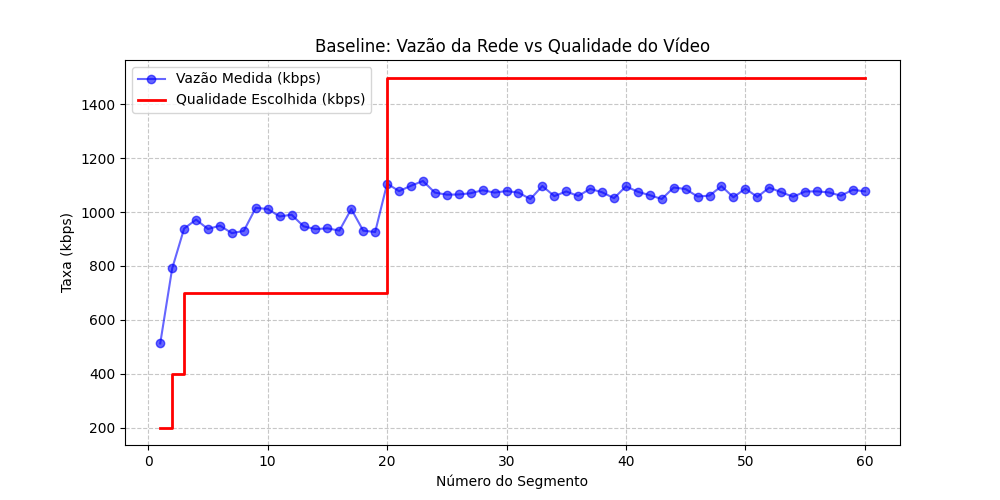
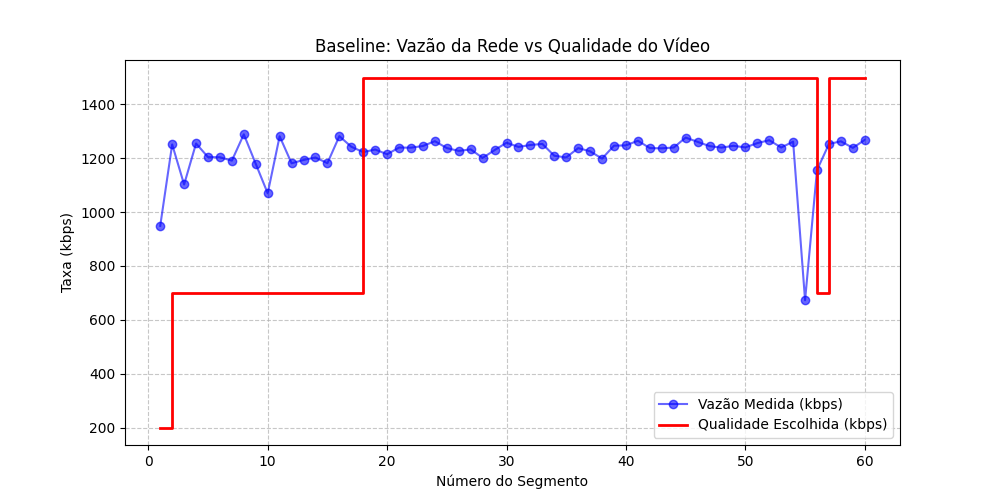
failover implementado

diff --git a/ClienteDash.py b/ClienteDash.py
@@ -21,6 +21,8 @@ class ClienteDash:
         self.download_time_s = 0.0
         self.tamanho_segmento_bits = 0
         self.fase_arranque_ativa = True
+        self.total_failovers = 0
+        self.servidores_ordenados = []
 
 
     def baixar_manifesto(self):
@@ -31,8 +33,8 @@ class ClienteDash:
                 response = requests.get(url_manifesto, timeout=3)
                 if response.status_code == 200:
                     self.manifesto = response.json()
-                    servidores = sorted(self.manifesto["servers"], key=lambda k: k['priority'])
-                    self.servidor_ativo = servidores[0]['url']
+                    self.servidores_ordenados = sorted(self.manifesto["servers"], key=lambda k: k['priority'])
+                    self.servidor_ativo = self.servidores_ordenados[0]['url']
                     print(f"    Manifesto carregado. Servidor ativo: {self.servidor_ativo}")
                     return True
             except requests.RequestException:
@@ -90,16 +92,59 @@ class ClienteDash:
                     0 # failover_total
                 ])
 
+    def baixar_com_failover(self, url_path):
+        """
+        Tenta baixar o segmento. Se falhar, busca um servidor alternativo via /health
+        """
+        url_completa = f"{self.servidor_ativo}{url_path}"
+        
+        try:
+            # Pedido normal (timeout curto para não travar o player para sempre se o server morrer)
+            response = requests.get(url_completa, timeout=2)
+            response.raise_for_status() # Lança erro se a resposta não for 200 OK
+            return response
+            
+        except requests.RequestException as e:
+            print(f"    [!] Servidor ativo ({self.servidor_ativo}) caiu ou deu timeout!")
+            print("    [*] Iniciando procedimento de FAILOVER...")
+            
+            # Itera pela lista de servidores do manifesto respeitando a prioridade
+            for servidor in self.servidores_ordenados:
+                url_candidata = servidor['url']
+                
+                # Ignora o servidor que a gente já sabe que está morto
+                if url_candidata == self.servidor_ativo:
+                    continue
+                    
+                print(f"    [*] Testando Health Check em: {url_candidata}/health")
+                try:
+                    # Health check com timeout agressivo de 2 segundos
+                    health_resp = requests.get(f"{url_candidata}/health", timeout=2)
+                    
+                    if health_resp.status_code == 200:
+                        print(f"    [+] Servidor {url_candidata} está VIVO! Migrando...")
+                        self.servidor_ativo = url_candidata
+                        self.total_failovers += 1
+                        
+                        # Agora tenta baixar o vídeo novamente, mas do novo servidor
+                        nova_url = f"{self.servidor_ativo}{url_path}"
+                        return requests.get(nova_url, timeout=3)
+                        
+                except requests.RequestException:
+                    print(f"    [-] Servidor {url_candidata} também está morto.")
+            
+            # Se saiu do loop, significa que testou todos e não achou ninguém
+            print("    [!] ERRO FATAL: Todos os servidores estão indisponíveis.")
+            raise Exception("Apagão de Rede") # Joga um erro fatal para cancelar a medição
+        
 
     def baixar_e_medir_segmento(self, url_path):
         """
         Baixa o segmento para o buffer e retorna o tempo que levou e os bytes recebidos.
         """
-        url_completa = f"{self.servidor_ativo}{url_path}"
-        
         try:
             inicio = time.time()
-            response = requests.get(url_completa)
+            response = self.baixar_com_failover(url_path)
             final = time.time()
 
             if response.status_code == 200: